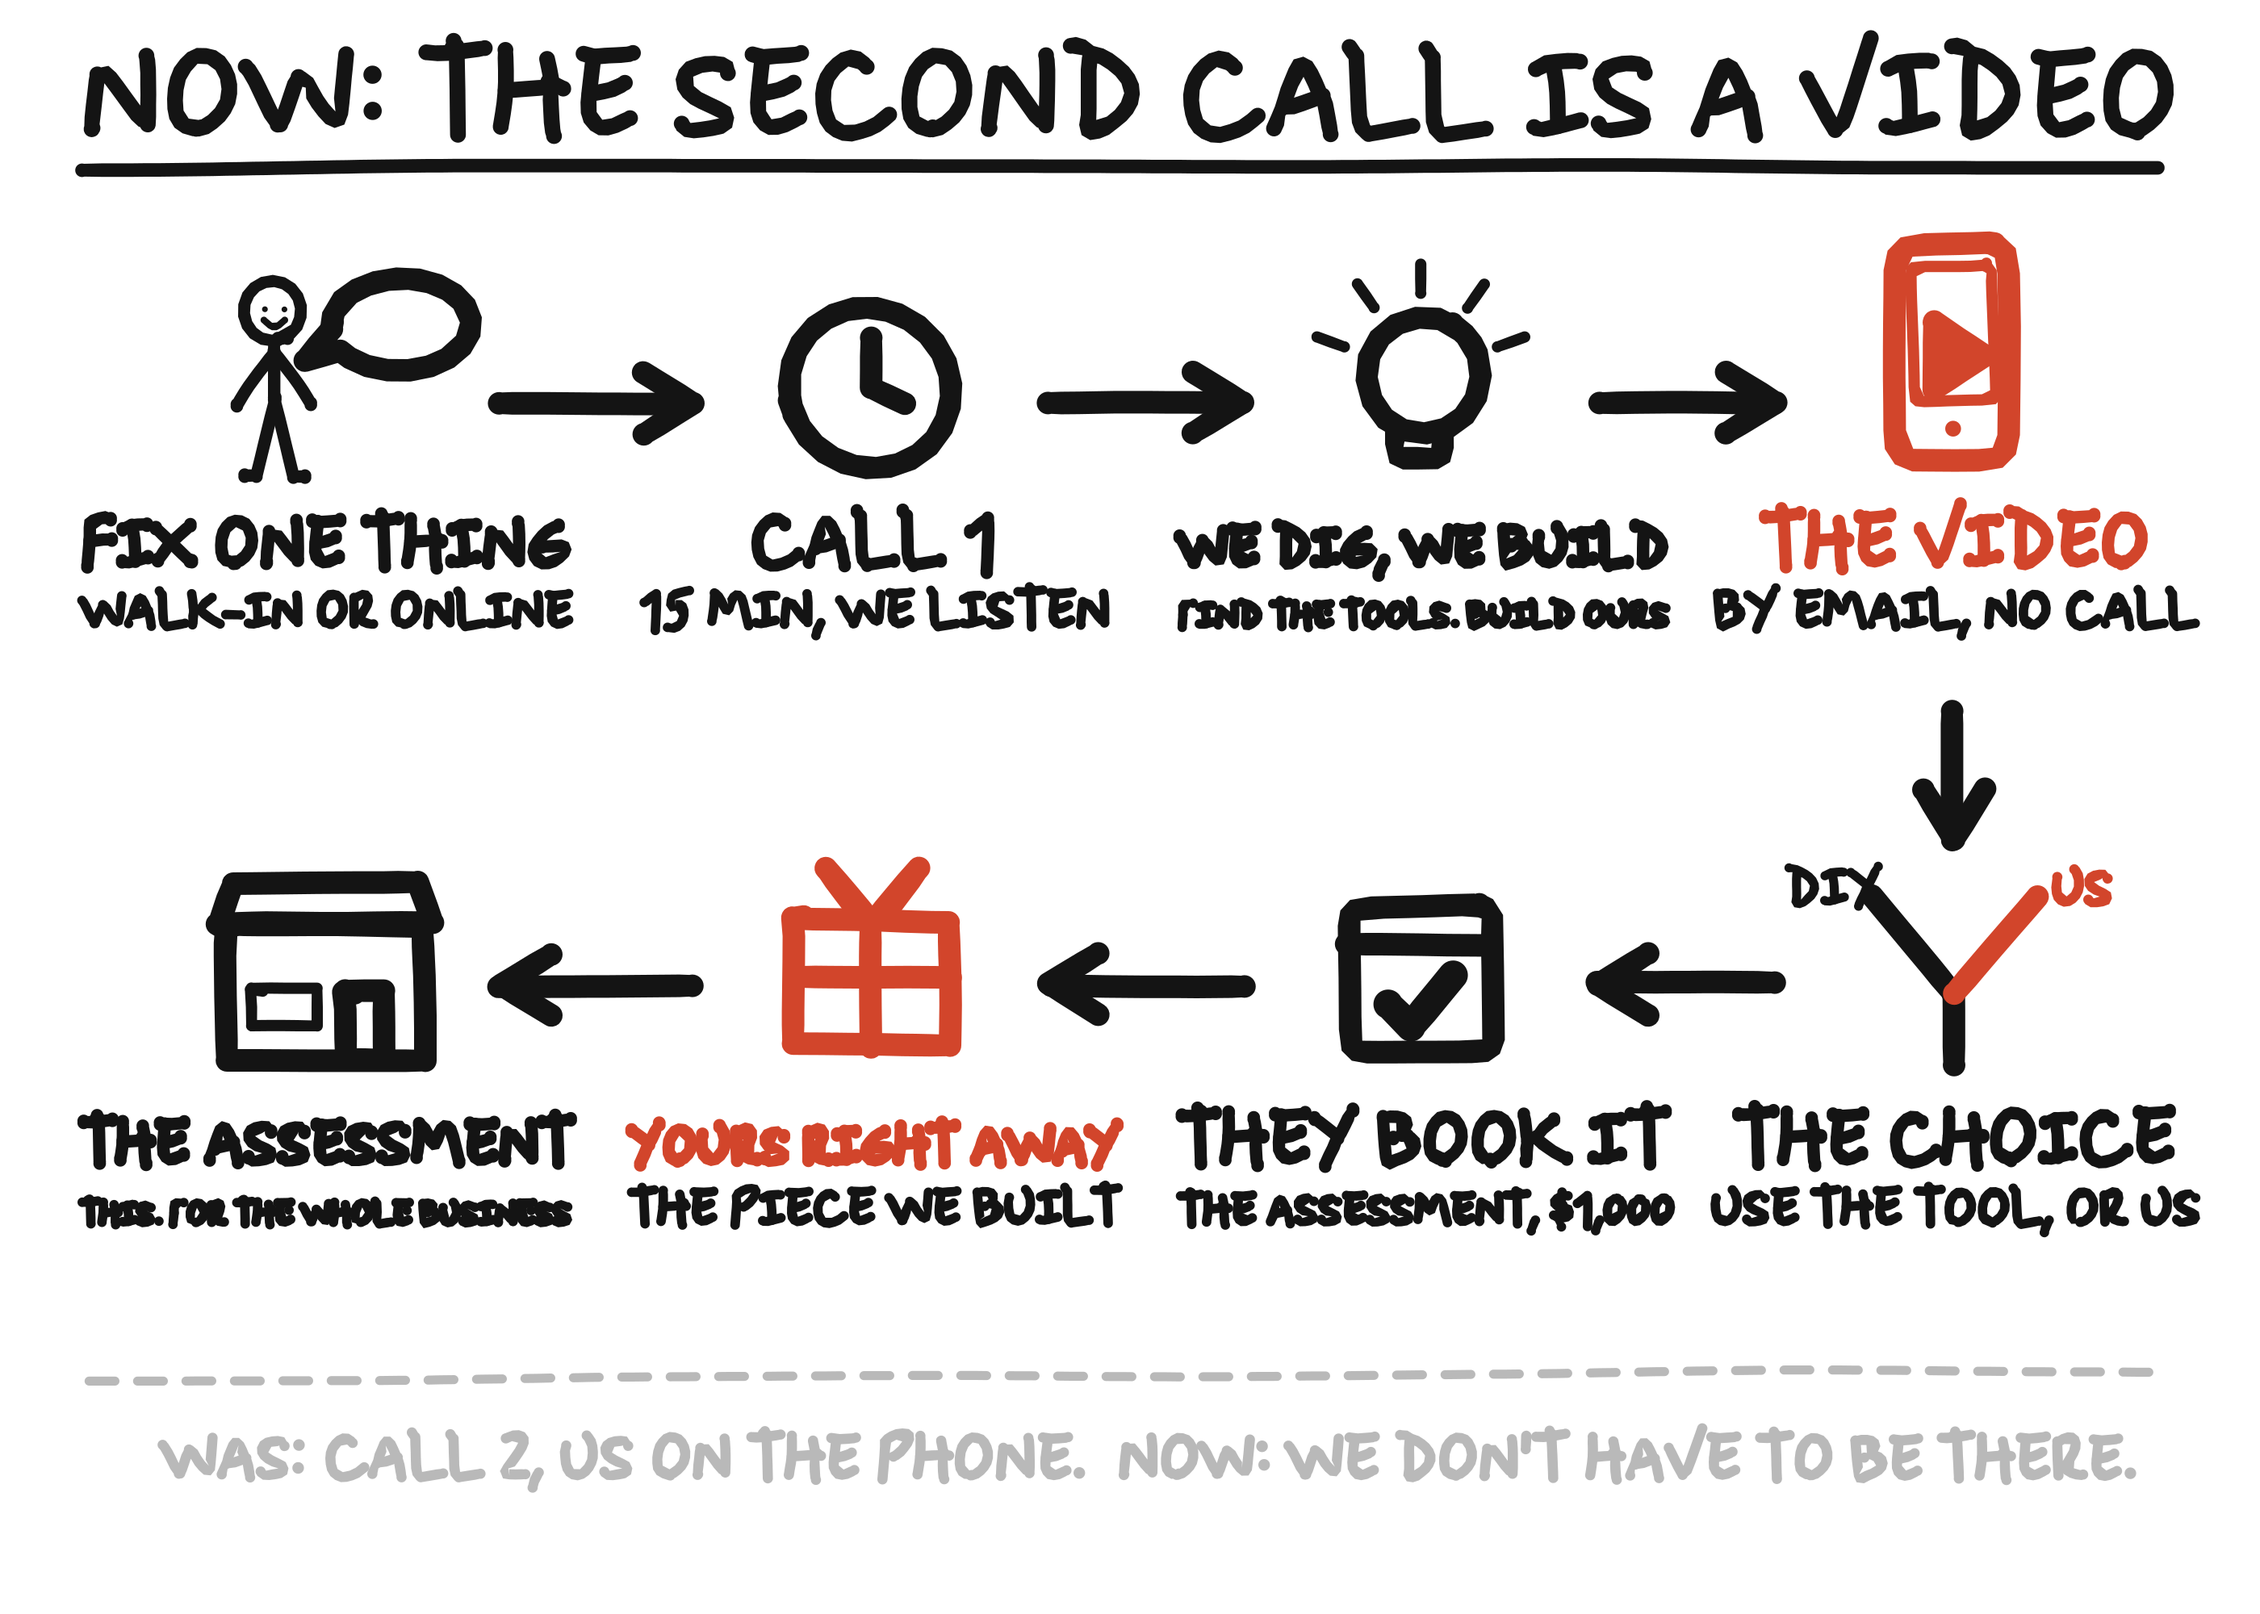
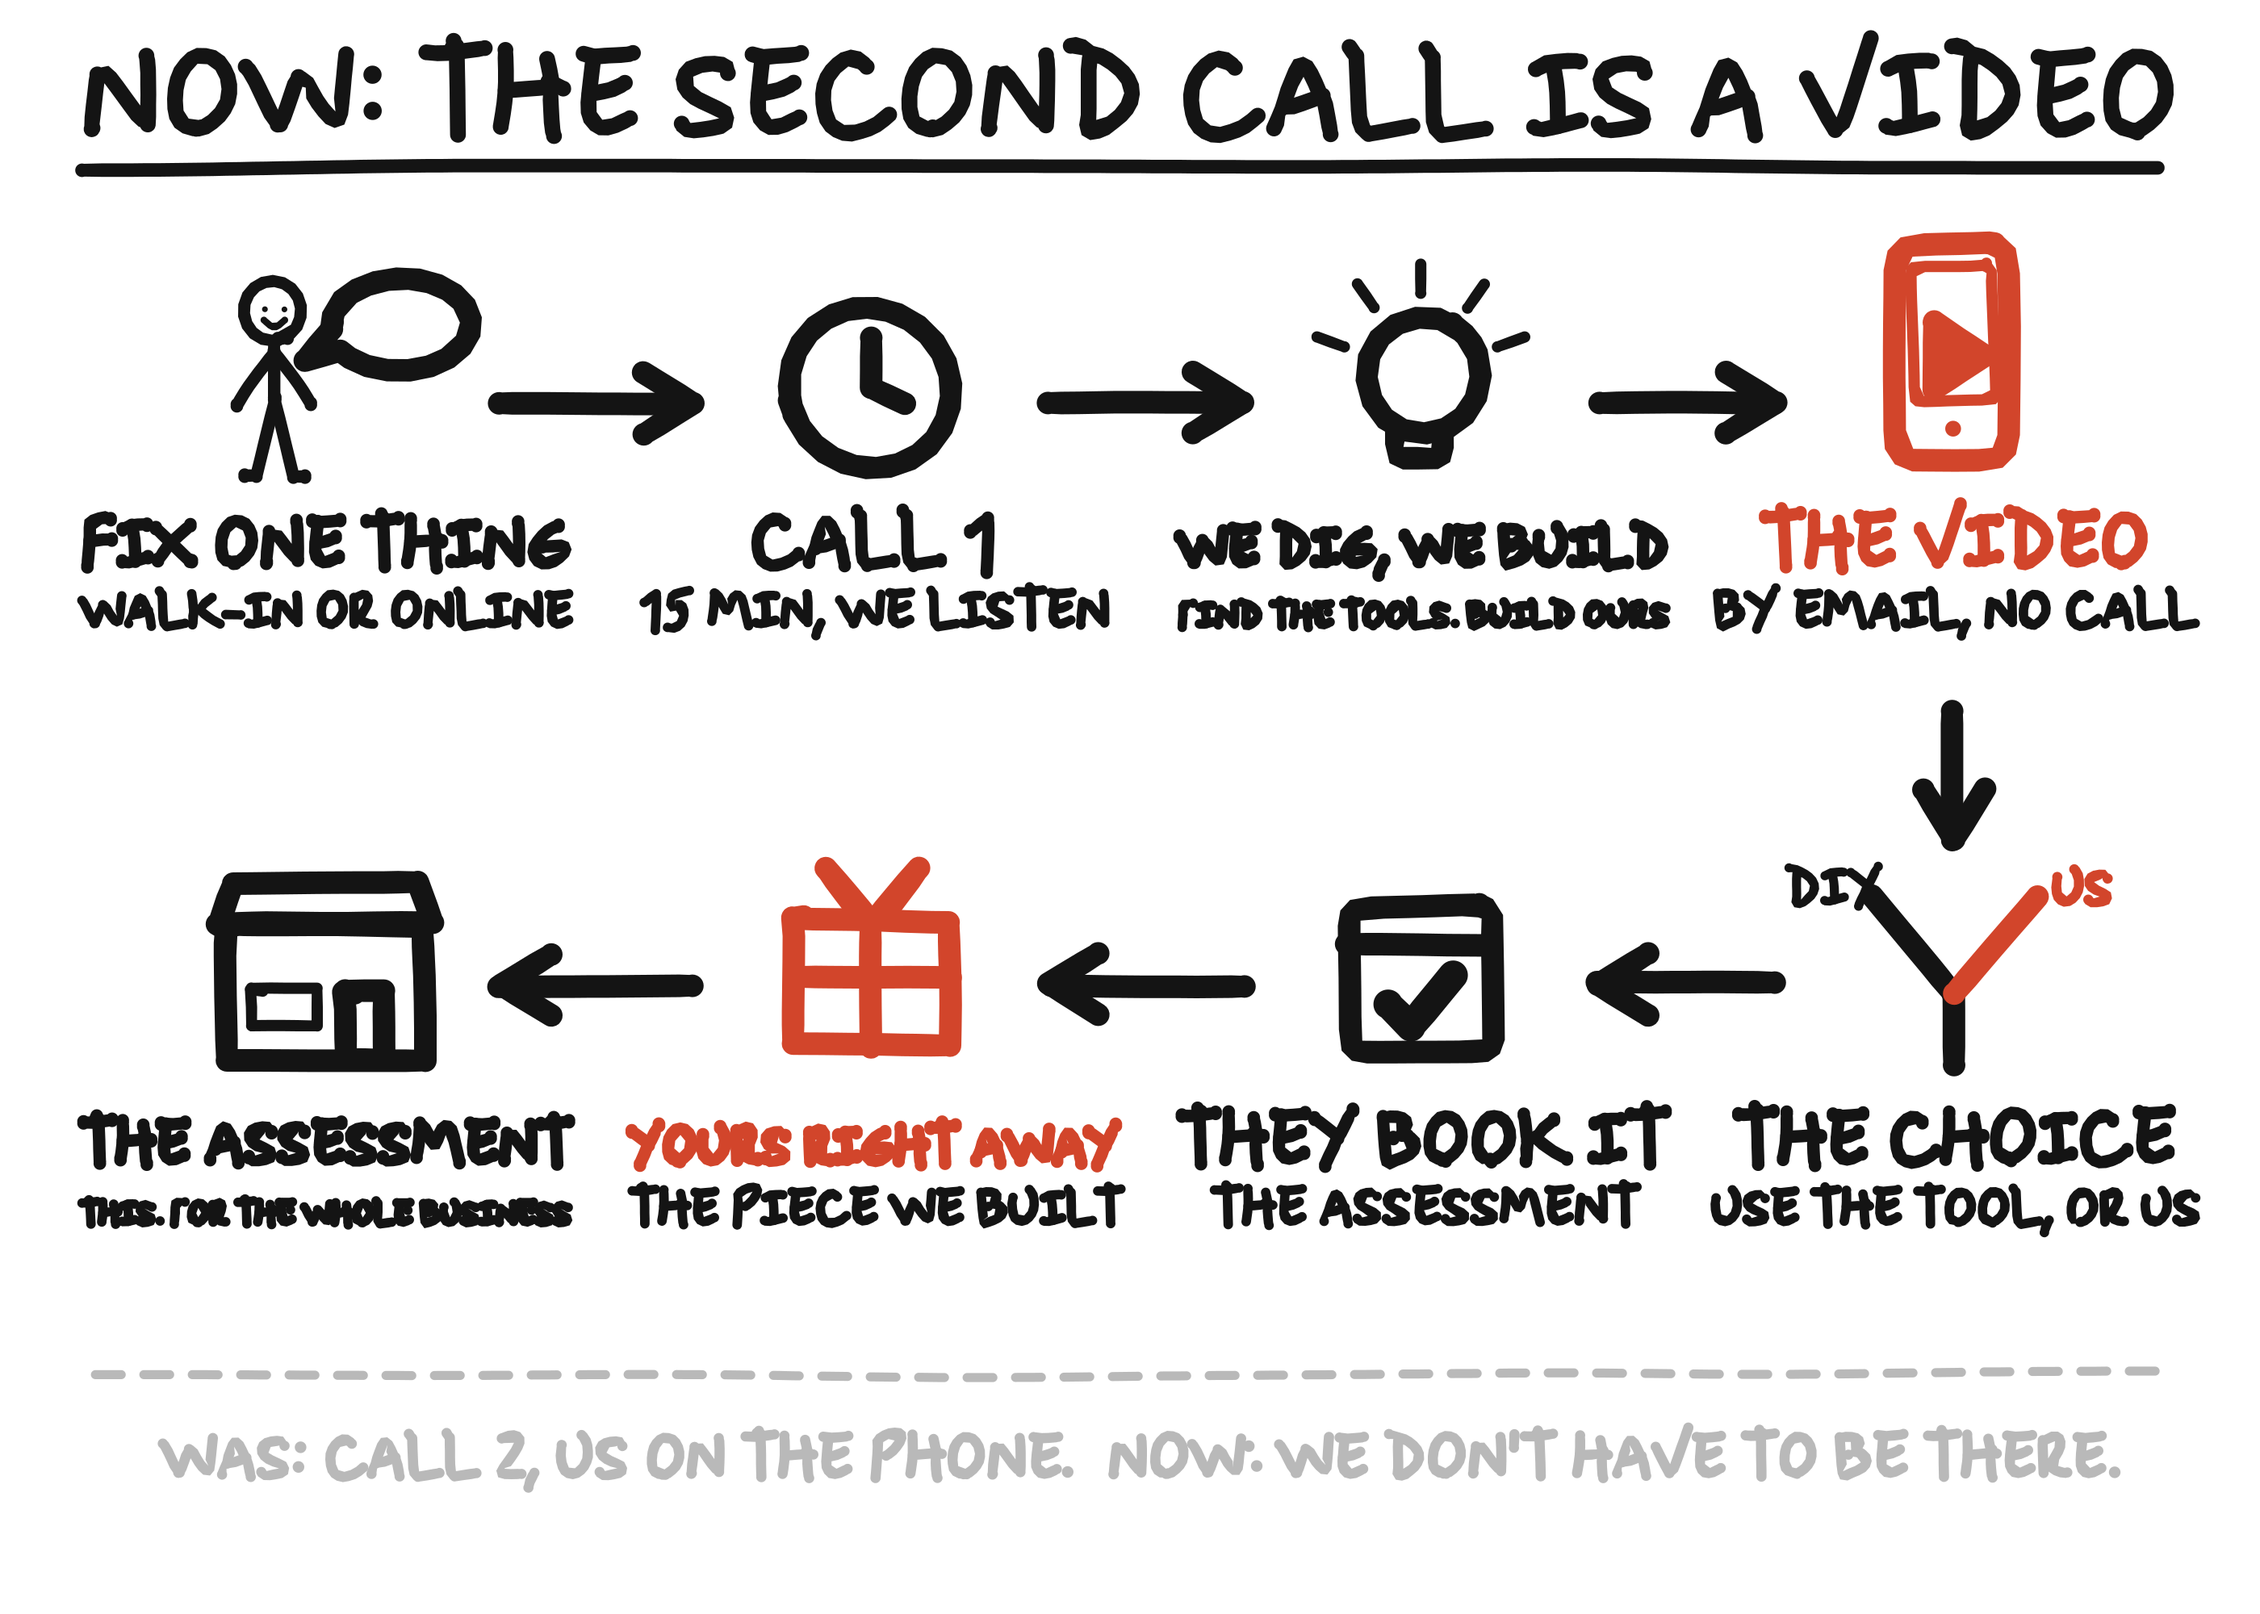
Plan page: the assessment price is tested from the start (Nov 20)
Claude-Session: https://claude.ai/code/session_017YmnRjtDrwW3XxBJ6BhhJD

diff --git a/admin/plan/index.html b/admin/plan/index.html
@@ -195,6 +195,11 @@ main img.d{width:100%;height:auto;border:1px solid #e3e3e3;border-radius:6px;mar
 <p>And it's in their hands the moment the assessment is scheduled.</p>
 <p>Custom. Specific. And we did what we said we'd do.</p>
 <p>Daegan's read: this is the irresistible offer we were looking for.</p>
+<p><b>The price: we test it from the start.</b></p>
+<p>Corey Ganim charges $1,000 for his assessment. There may be a reason for that number when it comes to getting a yes.</p>
+<p>Daegan's read: with a custom video in front of it, ours can be at least $2,000.</p>
+<p>Payments are fine. The figures he's playing with, none settled: one payment of $2,000. Two payments of $1,000, or $1,050. Three payments of $700, or $750.</p>
+<p>So we go out of the gate with the test running, client by client, and see what happens. It doesn't have to be one standing price.</p>
 <p><b>Still open, to decide together:</b></p>
 <ul>
 <li>Ian's video had seven weeks of work behind it. After one 15-minute call, what stands in for "here's what it took"?</li>
@@ -202,7 +207,7 @@ main img.d{width:100%;height:auto;border:1px solid #e3e3e3;border-radius:6px;mar
 <li>Does the custom piece hand over when they book the assessment, or when they pay?</li>
 <li>The five hours: how we work out the number for each owner, and what we say when a piece saves less.</li>
 <li>How the owner gets from the email to booked with no call: the link, the booking page, and who answers their questions.</li>
-<li>The name and price of the paid step. On Nov 19 this page called it a paid meeting. On Nov 20 Daegan called it the assessment, at $1,000. The drawings here use that. The earlier lines on this page haven't been changed to match.</li>
+<li>The name and price of the paid step. On Nov 19 this page called it a paid meeting. On Nov 20 Daegan called it the assessment, with the price on test (see just above). The earlier lines on this page haven't been changed to match.</li>
 <li>Who makes each video, and how fast. Jimmy's Claude and Daegan's Claude are each adapting what was built for Ian so Jimmy and Paul can use it on the leads in our database. The two versions still need to be lined up.</li>
 <li>Ian's video is still marked for Jimmy to review first. It goes on our public pages after Jimmy clears it and Ian says yes.</li>
 </ul>
